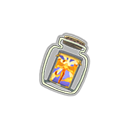
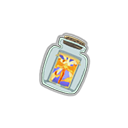
proper abstraction; Preserved Mayhem relic

Changed region(s): [[0.3125, 0.2812, 0.6875, 0.75], [0.5625, 0.3125, 0.5938, 0.3438]]

diff --git a/src/main/java/thesimpleton/relics/bottledcard/AbstractCardInJarRelic.java b/src/main/java/thesimpleton/relics/bottledcard/AbstractCardInJarRelic.java
@@ -10,29 +10,32 @@ import com.megacrit.cardcrawl.unlock.UnlockTracker;
 import thesimpleton.TheSimpletonMod;
 
 public class AbstractCardInJarRelic extends CustomRelic {
-    public static final String ID = "TheSimpletonMod:CardInJarApotheosis";
-    public static final String IMG_PATH = "relics/cardinjar_apotheosis.png";
-    public static final String IMG_PATH_LARGE = "relics/cardinjar_apotheosis_large.png";
     public static final String OUTLINE_IMG_PATH = "relics/cardinjar_outline.png";
-
     private static final AbstractRelic.RelicTier TIER = AbstractRelic.RelicTier.SPECIAL;
     private static final AbstractRelic.LandingSound SOUND = AbstractRelic.LandingSound.CLINK;
 
     private AbstractCard card;
 
     public AbstractCardInJarRelic(String id, String imgPath, String imgPathLarge, AbstractCard card) {
-        super(ID, new Texture(TheSimpletonMod.getImageResourcePath(imgPath)),
+        super(id, new Texture(TheSimpletonMod.getImageResourcePath(imgPath)),
                 new Texture(TheSimpletonMod.getImageResourcePath(OUTLINE_IMG_PATH)), TIER, SOUND);
         this.largeImg = ImageMaster.loadImage(TheSimpletonMod.getImageResourcePath(imgPathLarge));
         this.card = card;
     }
 
+    @Override
     public void atPreBattle() {
         this.flash();
         AbstractCard c = getCardInJar().makeCopy();
         UnlockTracker.markCardAsSeen(c.cardID);
         this.addToBot(new MakeTempCardInHandAction(c));
     }
+
+    @Override
+    public String getUpdatedDescription() {
+        return this.DESCRIPTIONS[0];
+    }
+
 
     private AbstractCard getCardInJar() {
         return card;

diff --git a/src/main/java/thesimpleton/TheSimpletonMod.java b/src/main/java/thesimpleton/TheSimpletonMod.java
@@ -63,6 +63,7 @@ import thesimpleton.potions.KindlingPotion;
 import thesimpleton.potions.MoonshinePotion;
 import thesimpleton.relics.*;
 import thesimpleton.relics.bottledcard.CardInJarApotheosis;
+import thesimpleton.relics.bottledcard.CardInJarMayhem;
 import thesimpleton.savedata.CardPoolCustomSavable;
 import thesimpleton.savedata.SeasonCropsCustomSavable;
 import thesimpleton.savedata.SeasonCustomSavable;
@@ -1176,9 +1177,10 @@ public class TheSimpletonMod implements EditCardsSubscriber, EditCharactersSubsc
     public void receiveEditRelics() {
         debugLogger.log("TheSimpletonMod::receiveEditRelics called ===========================>>>>>>>");
 
-        // shared relics
         BaseMod.addRelicToCustomPool(new CardInJarApotheosis(), AbstractCardEnum.THE_SIMPLETON_BLUE);
+        BaseMod.addRelicToCustomPool(new CardInJarMayhem(), AbstractCardEnum.THE_SIMPLETON_BLUE);
 
+        // shared relics
         if (ConfigData.enableRelicsForAllCharacters) {
             BaseMod.addRelic(new GardenGlove(), RelicType.SHARED);
             BaseMod.addRelic(new Moonshine(), RelicType.SHARED);

diff --git a/src/main/java/thesimpleton/relics/bottledcard/CardInJarMayhem.java b/src/main/java/thesimpleton/relics/bottledcard/CardInJarMayhem.java
@@ -1,0 +1,19 @@
+package thesimpleton.relics.bottledcard;
+
+import com.megacrit.cardcrawl.cards.colorless.Mayhem;
+import com.megacrit.cardcrawl.relics.AbstractRelic;
+
+public class CardInJarMayhem extends AbstractCardInJarRelic {
+    public static final String ID = "TheSimpletonMod:CardInJarMayhem";
+    public static final String IMG_PATH = "relics/cardinjar_mayhem.png";
+    public static final String IMG_PATH_LARGE = "relics/cardinjar_mayhem_large.png";
+
+    public CardInJarMayhem() {
+        super(ID, IMG_PATH, IMG_PATH_LARGE, new Mayhem());
+    }
+
+    @Override
+    public AbstractRelic makeCopy() {
+        return new CardInJarMayhem();
+    }
+}

diff --git a/src/main/java/thesimpleton/relics/bottledcard/CardInJarApotheosis.java b/src/main/java/thesimpleton/relics/bottledcard/CardInJarApotheosis.java
@@ -7,10 +7,9 @@ public class CardInJarApotheosis extends AbstractCardInJarRelic {
     public static final String ID = "TheSimpletonMod:CardInJarApotheosis";
     public static final String IMG_PATH = "relics/cardinjar_apotheosis.png";
     public static final String IMG_PATH_LARGE = "relics/cardinjar_apotheosis_large.png";
-    public static final String OUTLINE_IMG_PATH = "relics/cardinjar_outline.png";
 
     public CardInJarApotheosis() {
-        super(ID, IMG_PATH, OUTLINE_IMG_PATH, new Apotheosis());
+        super(ID, IMG_PATH, IMG_PATH_LARGE, new Apotheosis());
     }
 
     @Override
